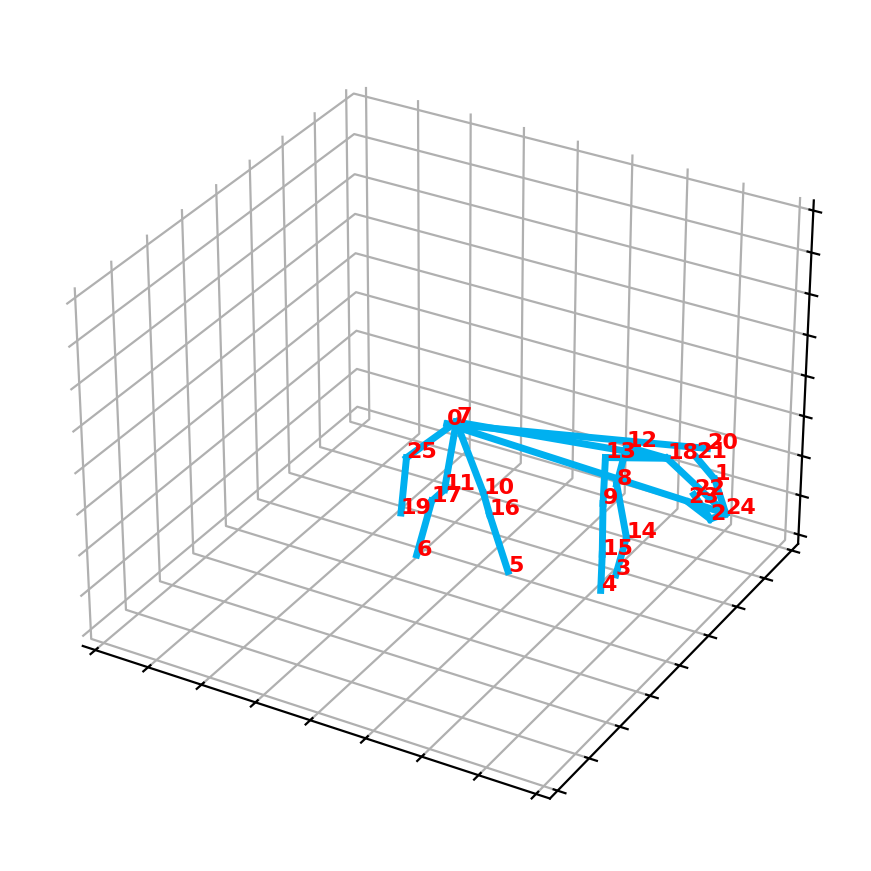
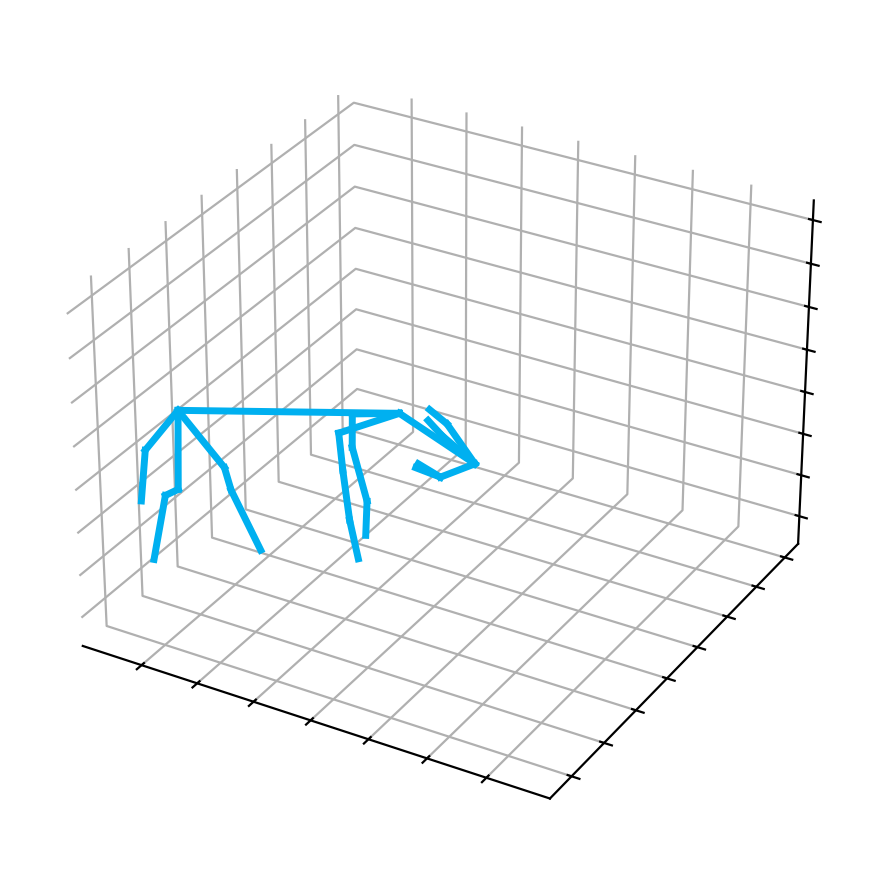
delete 0 index =0

Changed region(s): [[0.062, 0.093, 0.93, 0.93]]

diff --git a/demo/animals/vis_animals.py b/demo/animals/vis_animals.py
@@ -443,7 +443,7 @@ def get_3D_pose_from_image(args, keypoints, i, img, model, output_dir):
     output_3D = (output_3D_non_flip + output_3D_flip) / 2
 
     output_3D = output_3D[0:, args.pad].unsqueeze(1)
-    output_3D[:, :, 0, :] = 0
+    # output_3D[:, :, 0, :] = 0
     post_out = output_3D[0, 0].cpu().detach().numpy()
 
     # rot = [0.1407056450843811, -0.1500701755285263, -0.755240797996521, 0.6223280429840088]
@@ -535,11 +535,6 @@ def show3Dpose(vals, ax, color=(0/255, 176/255, 240/255), world=True, linewidth=
     for i in np.arange(len(I)):
         x, y, z = [np.array([vals[I[i], j], vals[J[i], j]]) for j in range(3)]
         ax.plot(x, y, z, lw=linewidth, color=color)
-    
-    # Plot keypoint indices
-    for i in range(len(vals)):
-        ax.text(vals[i, 0], vals[i, 1], vals[i, 2], str(i), 
-                color='red', fontsize=8, weight='bold')
     
     # Compute dynamic limits based on pose size
     xroot, yroot, zroot = vals[0, 0], vals[0, 1], vals[0, 2]
